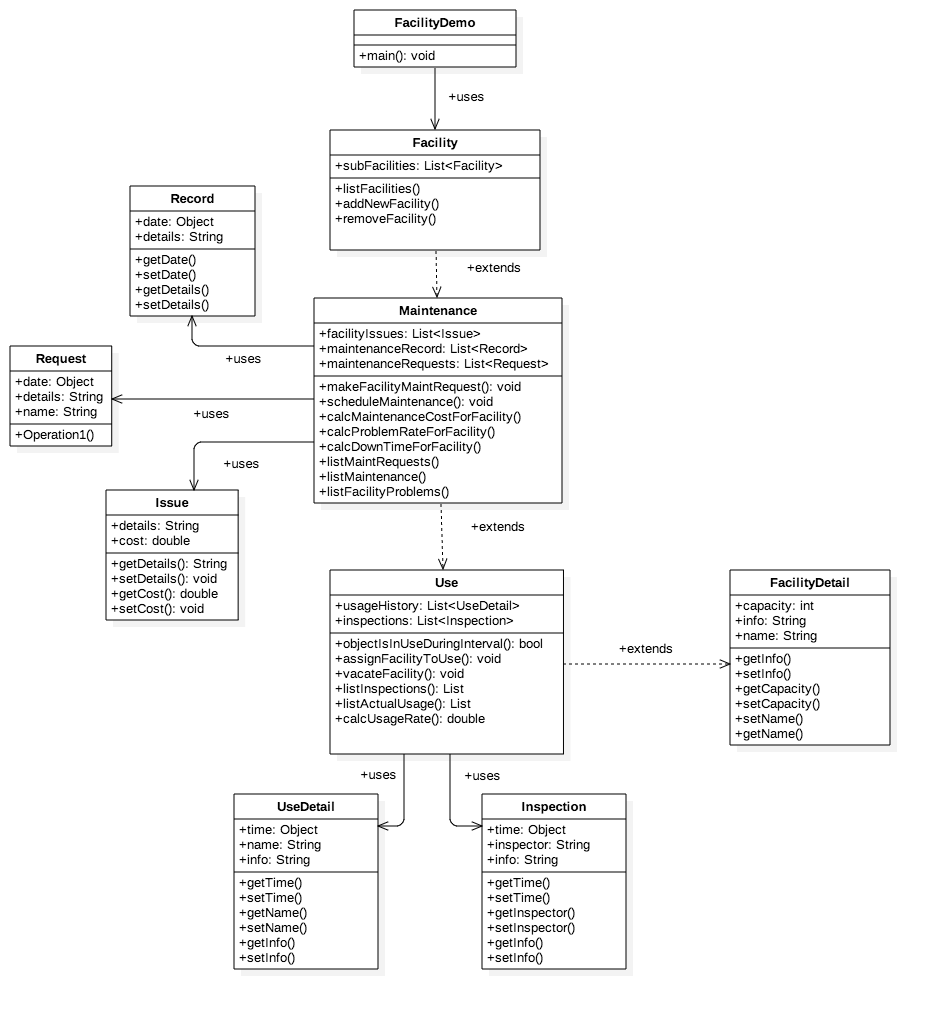
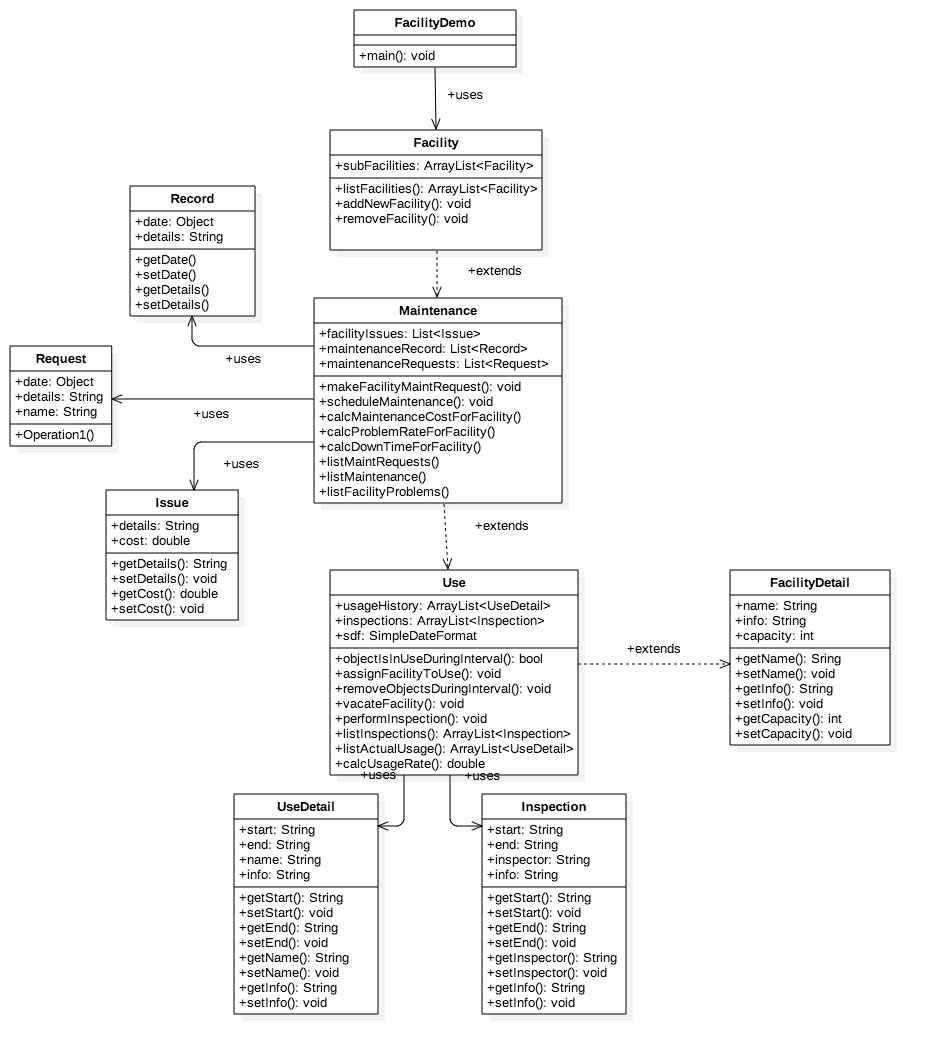
Updated UML; Working on Demo

diff --git a/Facility/src/use/Use.java b/Facility/src/use/Use.java
@@ -11,16 +11,17 @@ import use.Inspection;
 
 public class Use extends FacilityDetail{
 
-	private ArrayList<UseDetail> 	usageHistory;
-	private ArrayList<Inspection>	inspections;
-	private final SimpleDateFormat sdf = new SimpleDateFormat("yyyy-MM-dd'T'HH:mm:ss.SSSZ");
+	private ArrayList<UseDetail> 		usageHistory;
+	private ArrayList<Inspection>		inspections;
+	private final SimpleDateFormat 	sdf;
 
 
 	public Use(String name, String info, int capacity) {
 		super(name, info, capacity);
 
 		this.usageHistory = new ArrayList<UseDetail>();
-		this.inspections = new ArrayList<Inspection>();
+		this.inspections 	= new ArrayList<Inspection>();
+		this.sdf				 	= new SimpleDateFormat("yyyy-MM-dd'T'HH:mm:ss.SSSZ");
 	}
 
 	public boolean objectIsInUseDuringInterval(String start, String end) throws ParseException{
@@ -35,9 +36,9 @@ public class Use extends FacilityDetail{
 			if ((checkStart.compareTo(reservationStart) > 0 && checkStart.compareTo(reservationEnd) < 0) ||
 						(checkEnd.compareTo(reservationStart) > 0 && checkEnd.compareTo(reservationEnd) < 0)	) {
 					return true;
+				}
 			}
-		}
-		return false;
+			return false;
 	}
 
 	public void assignFacilityToUse(String start, String end, String name, String info) throws ParseException{
@@ -46,16 +47,35 @@ public class Use extends FacilityDetail{
 			return;
 		}
 		UseDetail reservation = new UseDetail(start, end, name, info);
-		usageHistory.add(reservation);
+		this.usageHistory.add(reservation);
+	}
+
+	public void removeObjectsDuringInterval(String start, String end) throws ParseException{
+		Date checkStart = sdf.parse(start);
+		Date checkEnd		= sdf.parse(end);
+		for (int i = 0;i < usageHistory.size(); i++) {
+			UseDetail reservation = usageHistory.get(i);
+
+      Date reservationEnd = sdf.parse(reservation.getEnd());
+      Date reservationStart = sdf.parse(reservation.getStart());
+
+			if ((checkStart.compareTo(reservationStart) > 0 && checkStart.compareTo(reservationEnd) < 0) ||
+						(checkEnd.compareTo(reservationStart) > 0 && checkEnd.compareTo(reservationEnd) < 0)	) {
+					this.usageHistory.remove(i);
+				}
+			}
 	}
 
 	public void vacateFacility(String start, String end) throws ParseException{
 		String name = "RESERVED";
 		String info = "Facility has been asked to be vacated";
-		if (objectIsInUseDuringInterval(start, end)) {
-			return;
-		}
+		removeObjectsDuringInterval(start, end);
 		assignFacilityToUse(start, end, name, info);
+	}
+
+	public void performInspection(String start, String end, String inspector, String info){
+		Inspection inspect = new Inspection(start, end, inspector, info);
+		this.inspections.add(inspect);
 	}
 
 	public ArrayList<Inspection> listInspections(){

diff --git a/Facility/src/FacilityDemo.java b/Facility/src/FacilityDemo.java
@@ -1,19 +1,63 @@
+import facility.Facility;
+
 public class FacilityDemo {
 
 // NOTE: Date & Time Pattern: "yyyy-MM-dd'T'HH:mm:ss.SSSZ"
 // 														2001-07-04T12:08:56.235-0700
 
-    public static void main (String args[]) {
-        FacilityUnit building = new FacilityUnit("Building");
-        FacilityUnit floor1 = new FacilityUnit("Floor 1");
-        FacilityUnit floor2 = new FacilityUnit("Floor 2");
-        FacilityUnit room101 = new FacilityUnit("Room 101");
-        FacilityUnit room102 = new FacilityUnit("Room 102");
-        FacilityUnit room201 = new FacilityUnit("Room 201");
-        FacilityUnit room202 = new FacilityUnit("Room 202");
+		public void addRooms(Facility floor, int level){
+			for (int i = 0; i < 5; i++) {
+				Facility newRoom = new Facility(level + i + "", "Room "+level+i, 10);
+				floor.addNewFacility(newRoom);
+			}
+		}
 
-        building.addSubUnits(floor1, floor2);
-        floor1.addSubUnits(room101, room102);
-        floor2.addSubUnits(room201, room202);
+		public void printComplex(Facility complex){
+			System.out.println(complex);
+      for (Facility floors : complex.listFacilities()) {
+         System.out.println(floors);
+
+         for (Facility rooms : floors.listFacilities()) {
+            System.out.println(rooms);
+         }
+      }
+		}
+
+    public static void main (String args[]) {
+			// 1. Build a large Facility
+			Facility ApartmentComplex = new Facility("Big Complex", "An apartment complex", 200);
+			// 2. Build 3 smaller floor Facilities with rooms
+			Facility floor0 = new Facility("Basement", "Basement of the complex", 50);
+			addRooms(floor0, 0);
+			Facility floor1 = new Facility("Floor 1", "First floor of the complex", 50);
+			addRooms(floor1, 1);
+			Facility floor2 = new Facility("Floor 2", "Second floor of the complex", 50);
+			addRooms(floor2, 2);
+			Facility floor3 = new Facility("Floor 3", "Third floor of the complex", 50);
+			addRooms(floor3, 3);
+			// 3. Print all Facilities using listFacilities();
+			printComplex(ApartmentComplex);
+			// 4. remove floor
+			ApartmentComplex.remove(floor3);
+			// 5. listFacilities();
+			//
+			// 6. Make room maintenance requests
+			// 7. listMaintRequest();
+			// 8. Schedule maintenance
+			// 9. listMaintenance();
+			// 8. calculate cost
+			// 9. Get down Time
+			// 10. Add issue?
+			// 11. listFacilityProblems();
+			// 12. calcProblemRate()
+			//
+			// 13. Reserve rooms
+			// 14. Show objectIsInUseDuringInterval()
+			// 15. Reserve floor (Vacate subfacilities)
+			// 16. listActualUsage()
+			// 17. calcUsageRate()
+			// 18. Add inspections
+			// 19. listInspections()
+
     }
 }

diff --git a/Facility/src/facility/Facility.java b/Facility/src/facility/Facility.java
@@ -1,6 +1,9 @@
-import maintenance.Maintenance;
+package facility;
 
-public class Facility extends Maintenance{
+// import maintenance.Maintenance;
+import use.Use;
+
+public class Facility extends Use{
 	private ArrayList<Facility> subfacilities;
 
 	public Facility(String name, String info, int capacity){
@@ -8,11 +11,8 @@ public class Facility extends Maintenance{
 		subfacilities = new ArrayList<Facility>;
 	}
 
-	public boolean hasSubfacilities(){
-		if (subfacilities.length() > 0) {
-			return true;
-		}
-		return false;
+	public String toString(){
+		return ("Facility :[ Name : " + this.name + ", info : " + this.info + ", capacity :" + this.capacity+" ]");
 	}
 
 	public ArrayList<Facility> listFacilities(){
